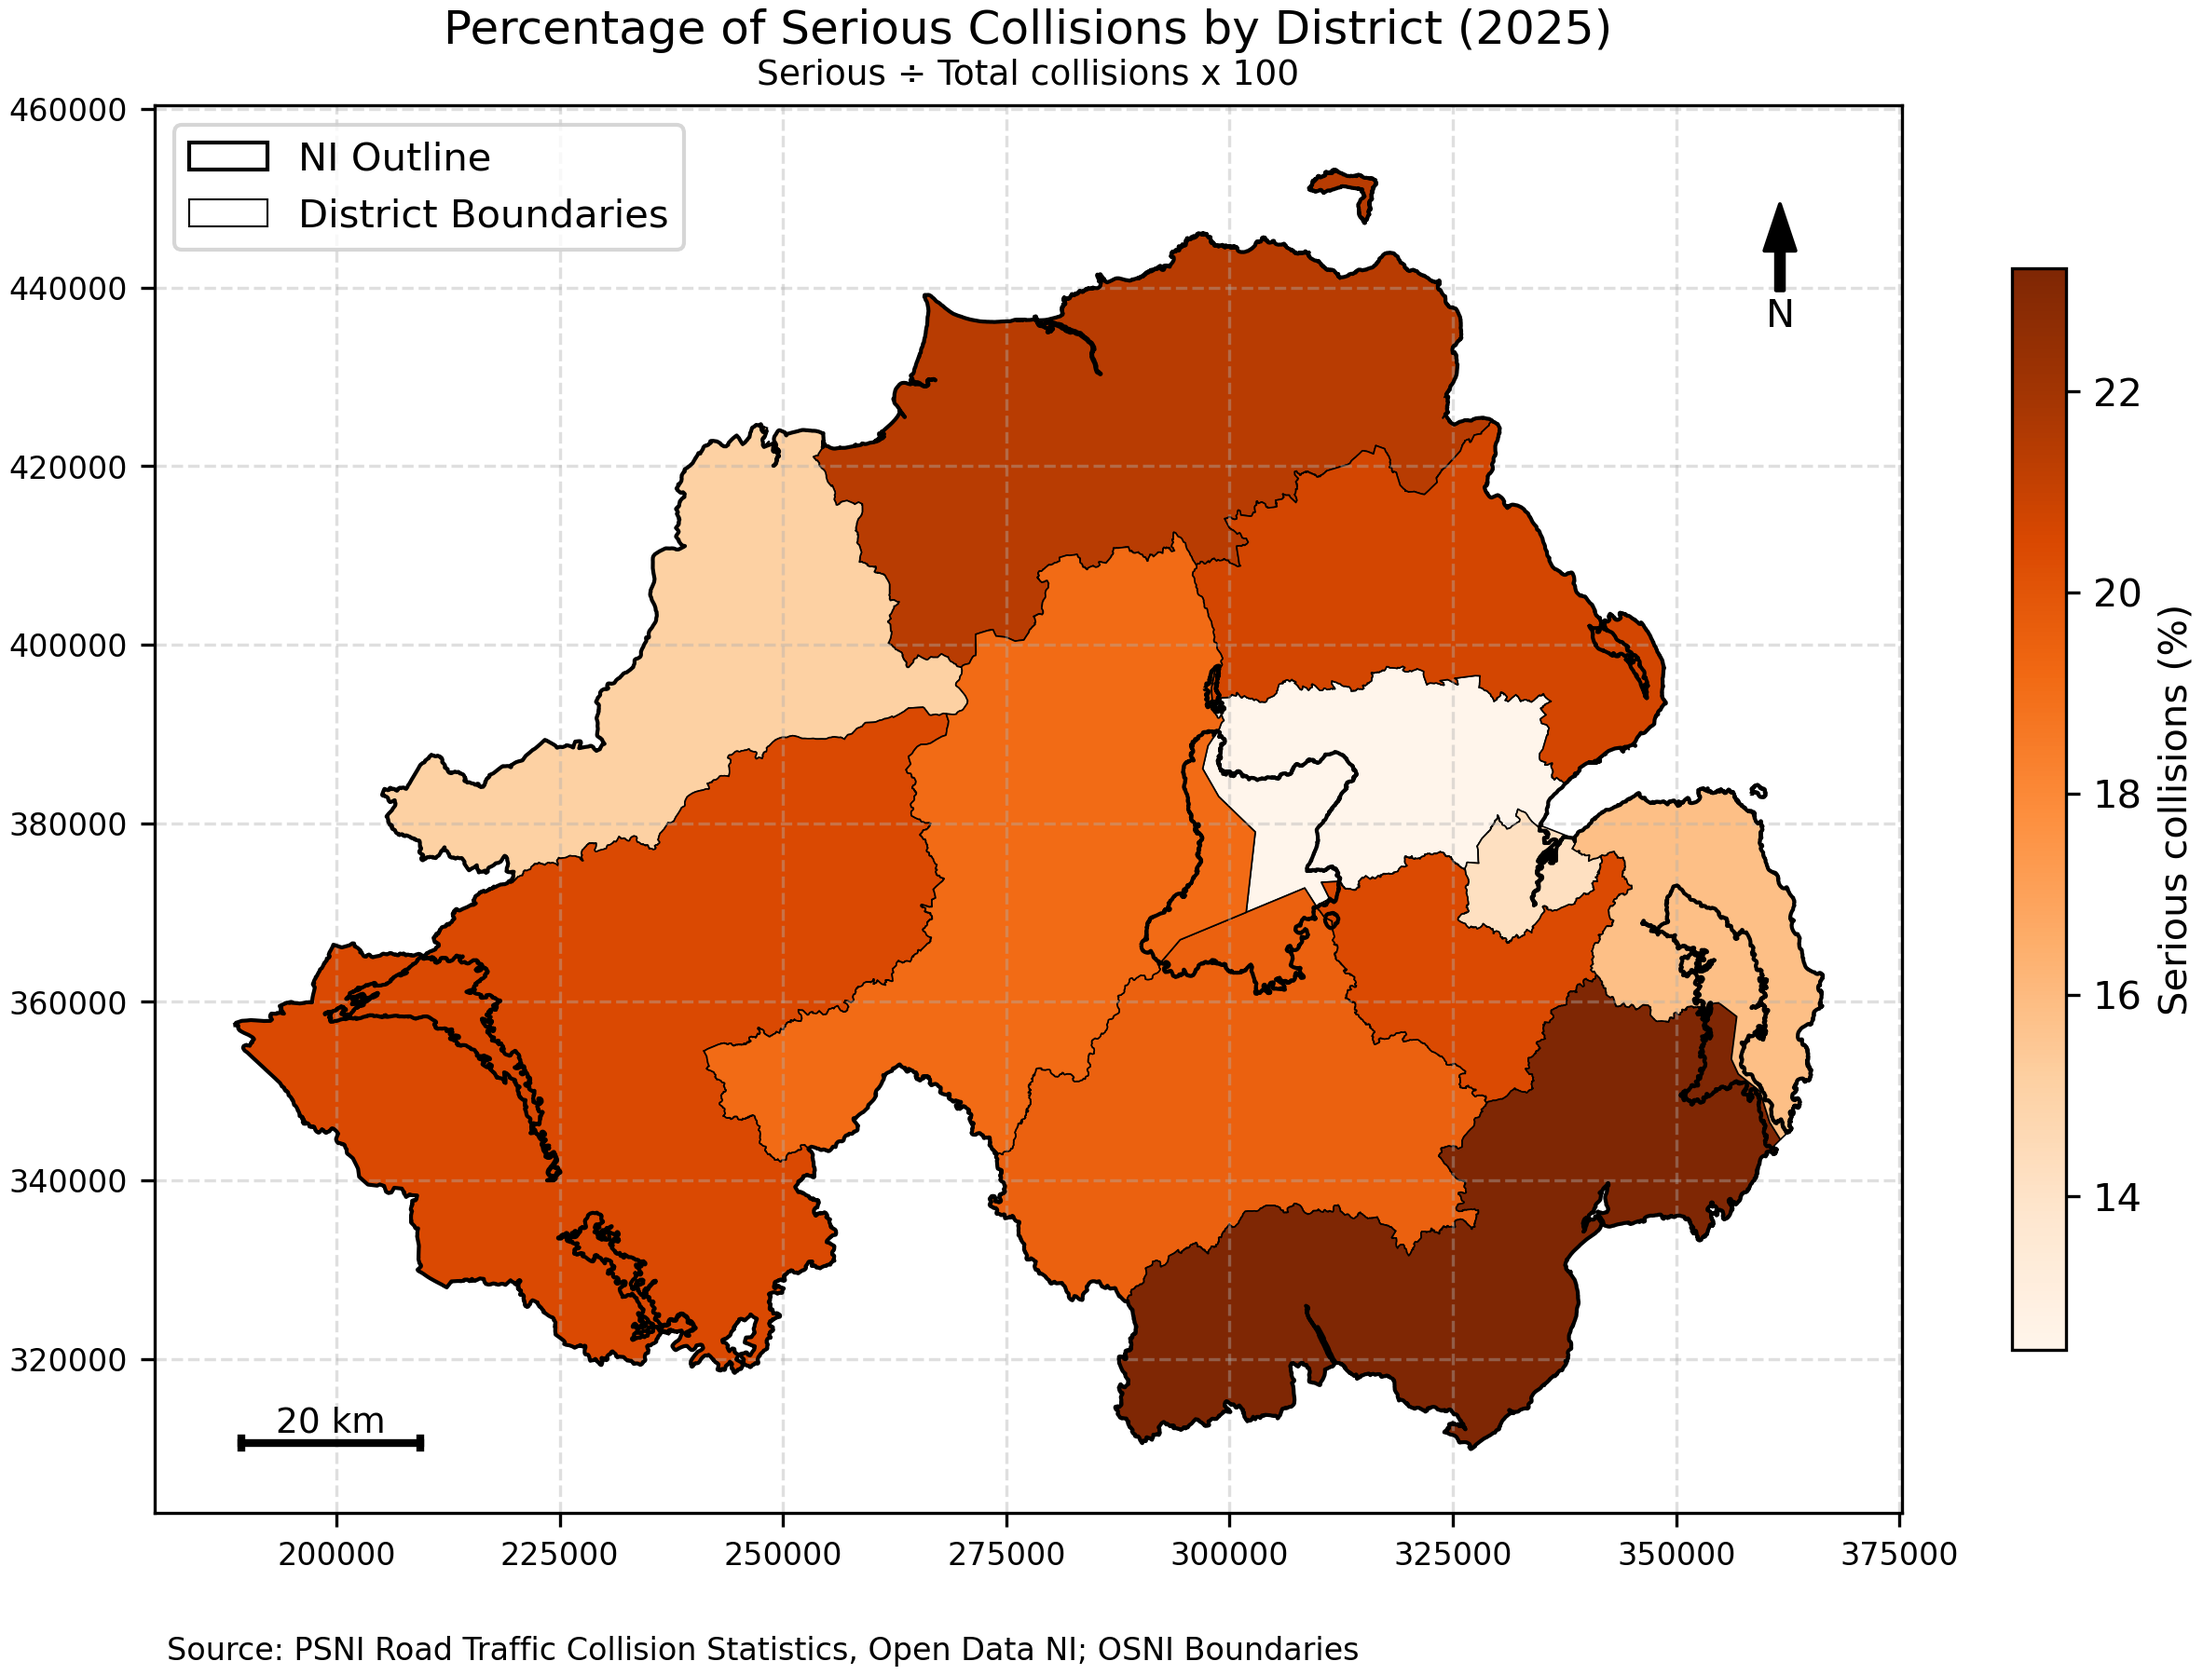
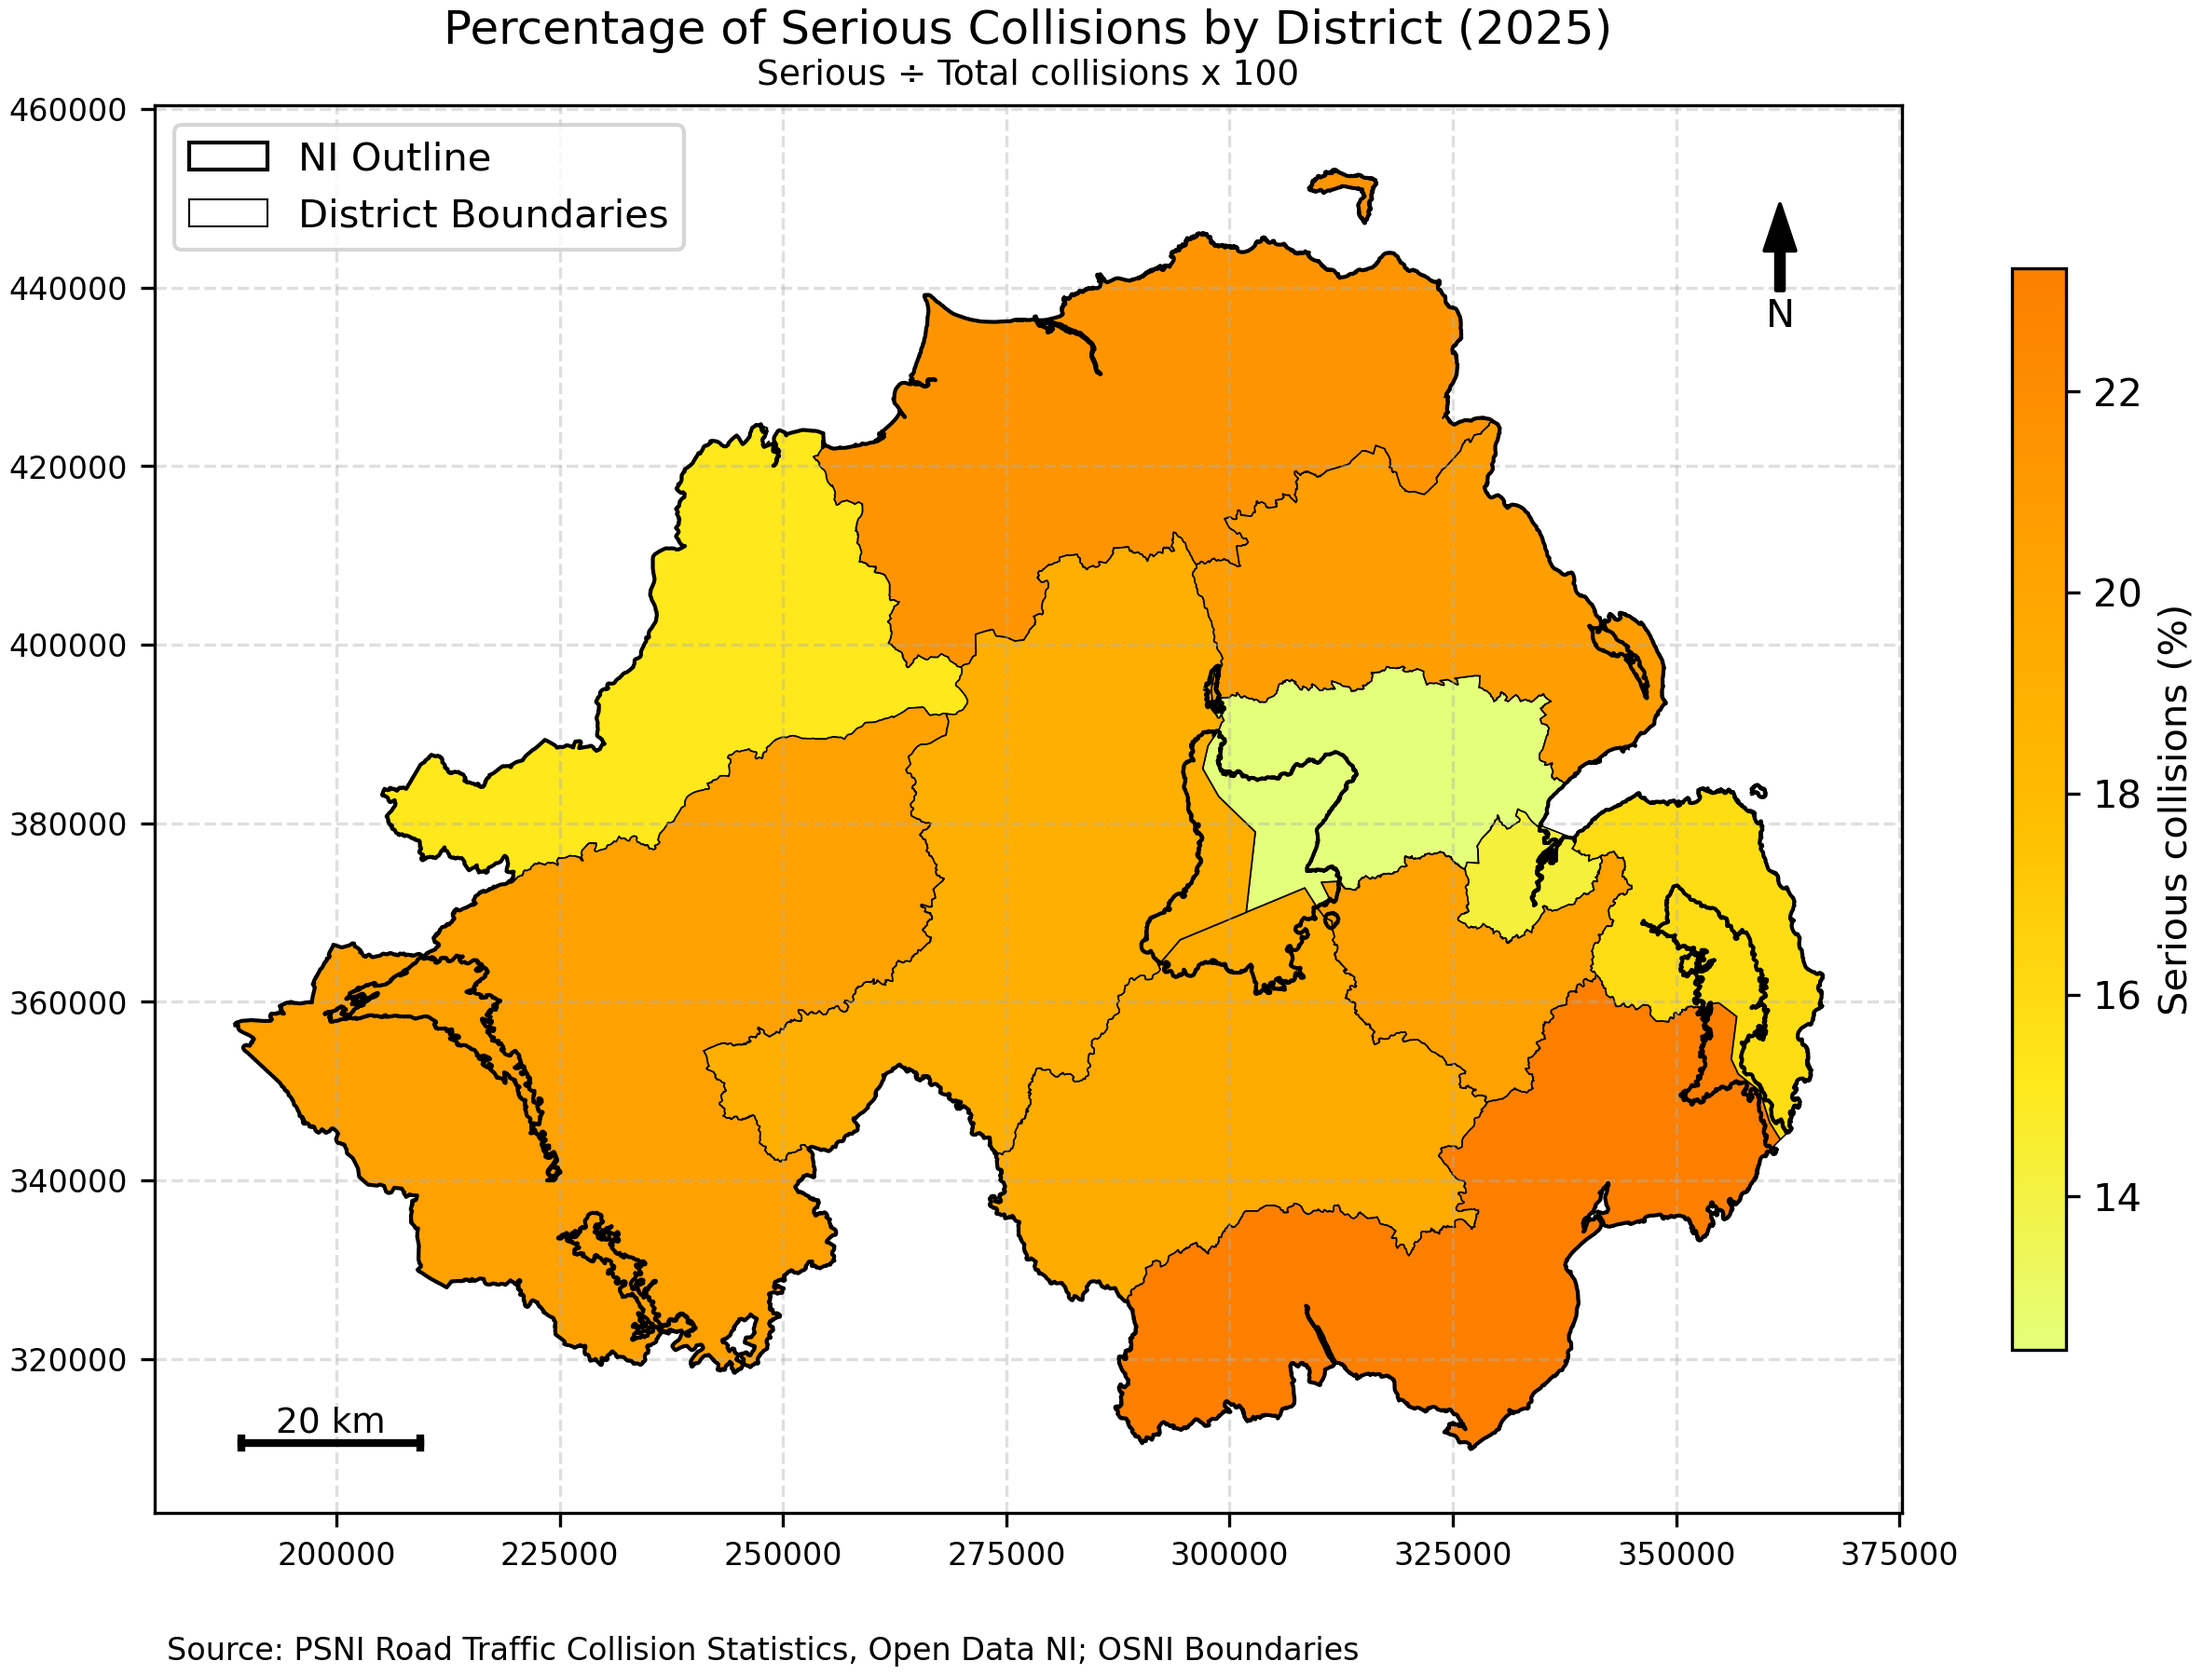
improving colours
colours

diff --git a/ni_collision_analysis.py b/ni_collision_analysis.py
@@ -539,7 +539,7 @@ create_choropleth_map(
     "Percentage of Serious Collisions by District",
     "Serious ÷ Total collisions x 100",
     f"{YEAR}_MAP_serious_percentage_choropleth.png",
-    "Oranges"
+    "Wistia"
 )
 print(f"{YEAR} MAP serious_percentage_choropleth created")
 
